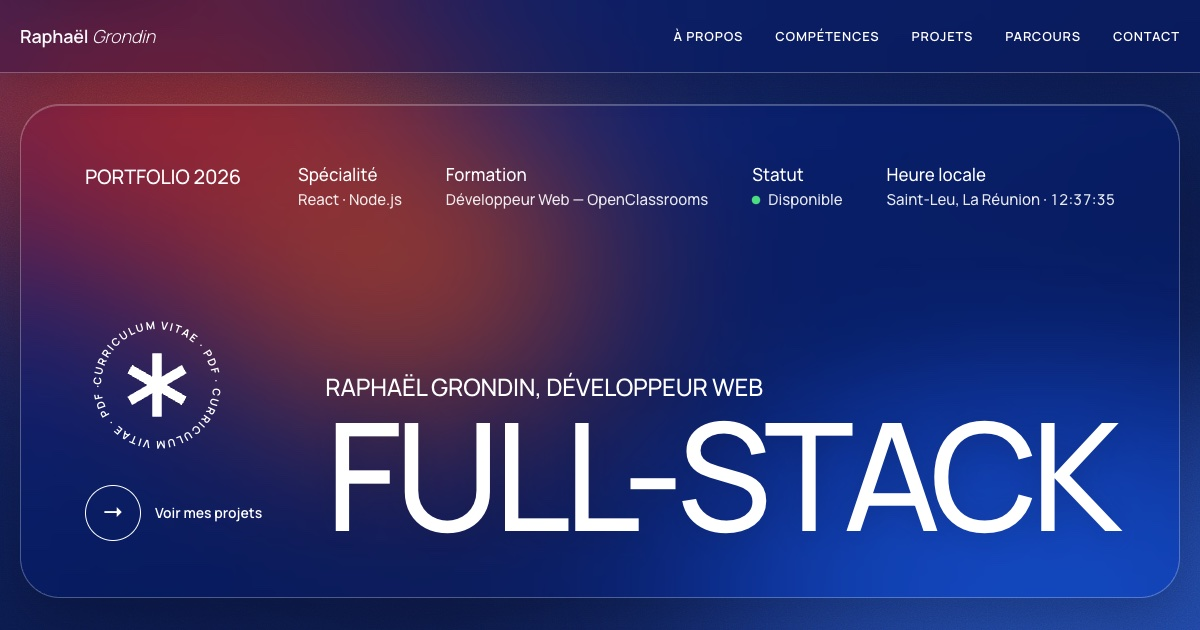
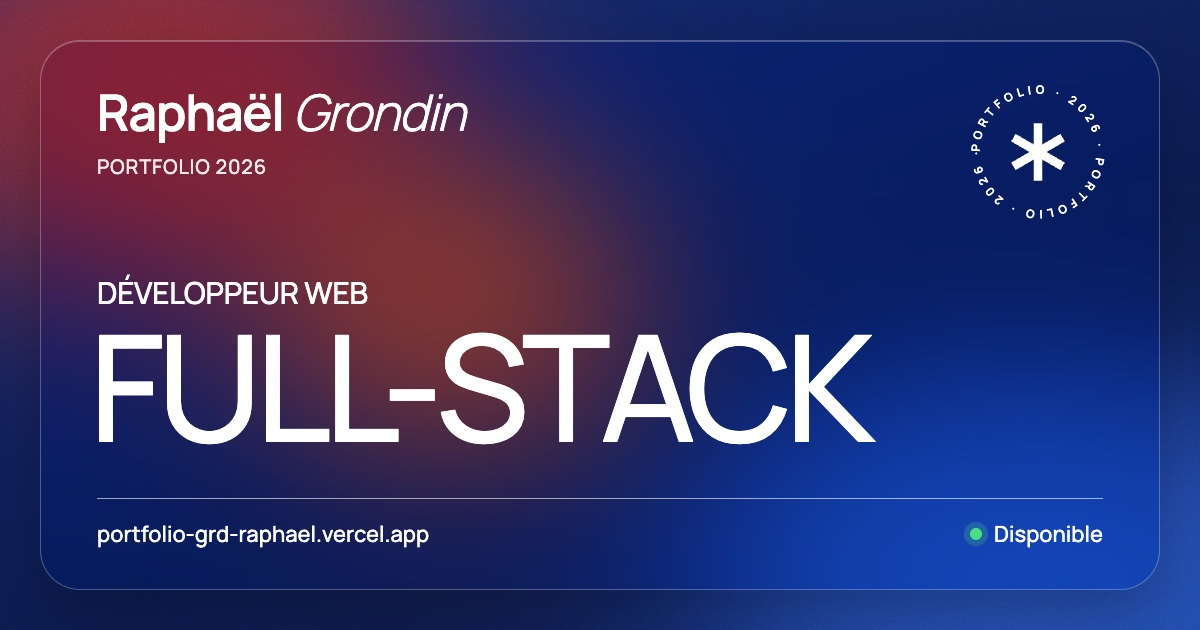
Add Open Graph and Twitter card meta tags

diff --git a/index.html b/index.html
@@ -17,7 +17,7 @@
   <meta property="og:image" content="https://portfolio-grd-raphael.vercel.app/og-image.jpg" />
   <meta property="og:image:width" content="1200" />
   <meta property="og:image:height" content="630" />
-  <meta property="og:image:alt" content="Accueil du portfolio : Raphaël Grondin, développeur web full stack." />
+  <meta property="og:image:alt" content="Carte de visite de Raphaël Grondin, développeur web full stack." />
   <meta name="twitter:card" content="summary_large_image" />
   <script type="application/ld+json">
   {
